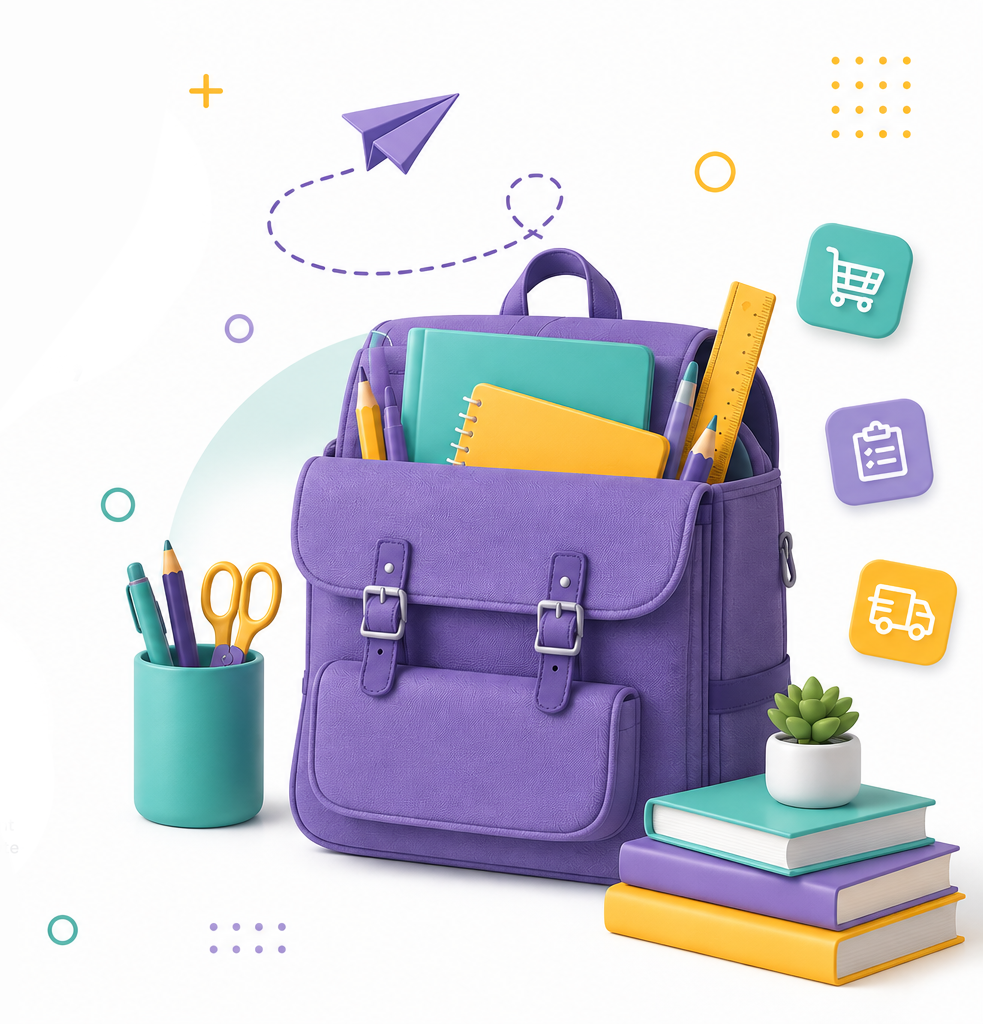
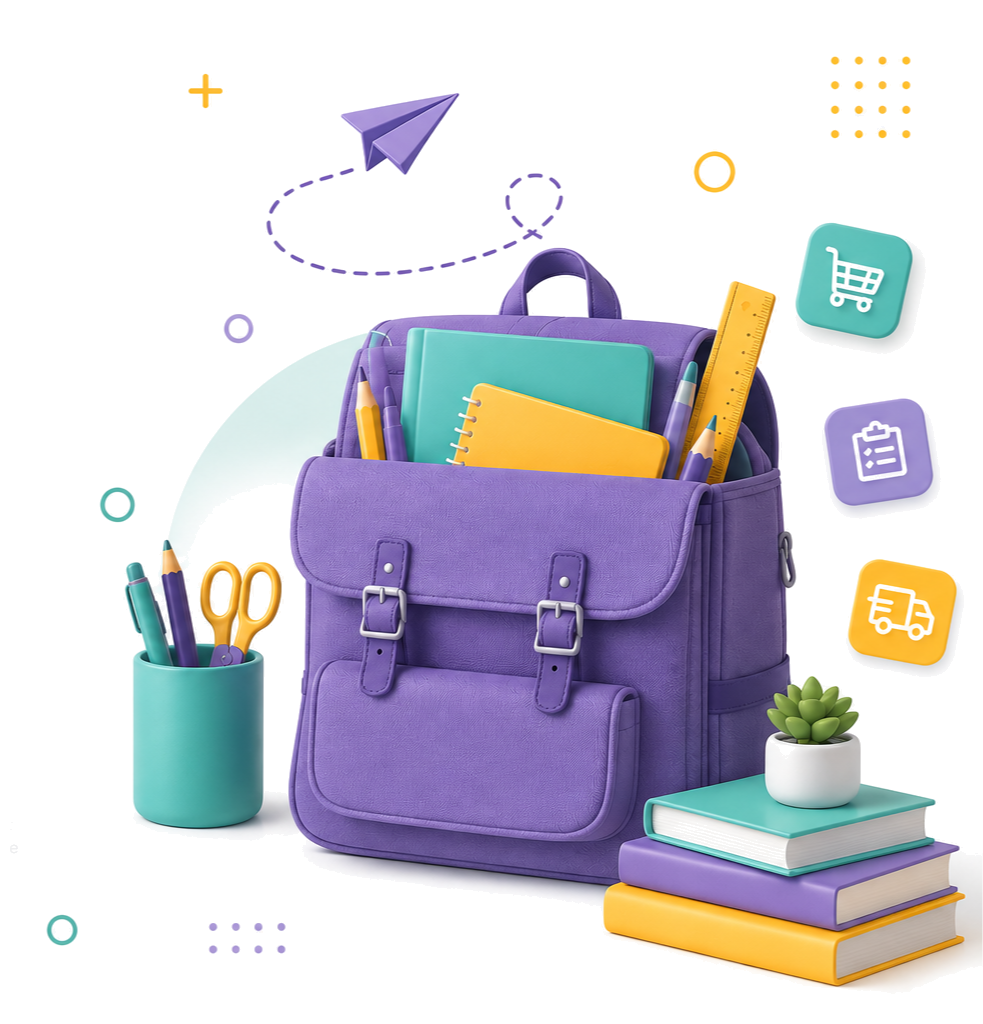
import-scholl-and-products-list

diff --git a/apps/frontend/src/components/SearchableSelect.tsx b/apps/frontend/src/components/SearchableSelect.tsx
@@ -1,0 +1,205 @@
+import { useEffect, useMemo, useRef, useState, type ReactNode } from 'react';
+import { ChevronDown, Search } from 'lucide-react';
+
+export interface SearchableSelectOption {
+  id: string;
+  label: string;
+  subtitle?: string | null;
+  iconUrl?: string | null;
+}
+
+interface SearchableSelectProps {
+  options: SearchableSelectOption[];
+  value: string;
+  onChange: (id: string) => void;
+  placeholder: string;
+  searchPlaceholder?: string;
+  emptyLabel?: string;
+  /** Icon shown in the trigger and as the default avatar for each row. */
+  icon?: ReactNode;
+  /** Called (debounced) whenever the search text changes — for server-side search. */
+  onSearch?: (query: string) => void;
+  loading?: boolean;
+  footerLabel?: string;
+  onFooterClick?: () => void;
+  className?: string;
+  required?: boolean;
+  name?: string;
+}
+
+export function SearchableSelect({
+  options,
+  value,
+  onChange,
+  placeholder,
+  searchPlaceholder = 'Rechercher...',
+  emptyLabel = 'Aucun résultat',
+  icon,
+  onSearch,
+  loading,
+  footerLabel,
+  onFooterClick,
+  className,
+  required,
+  name,
+}: SearchableSelectProps) {
+  const [open, setOpen] = useState(false);
+  const [query, setQuery] = useState('');
+  const [highlighted, setHighlighted] = useState(0);
+  const rootRef = useRef<HTMLDivElement>(null);
+  const inputRef = useRef<HTMLInputElement>(null);
+
+  const selected = useMemo(() => options.find((o) => o.id === value), [options, value]);
+
+  // Close on outside click.
+  useEffect(() => {
+    function handleClick(e: MouseEvent) {
+      if (rootRef.current && !rootRef.current.contains(e.target as Node)) {
+        setOpen(false);
+      }
+    }
+    document.addEventListener('mousedown', handleClick);
+    return () => document.removeEventListener('mousedown', handleClick);
+  }, []);
+
+  // Debounce server-side search.
+  useEffect(() => {
+    if (!onSearch) return;
+    const t = setTimeout(() => onSearch(query), 250);
+    return () => clearTimeout(t);
+  }, [query, onSearch]);
+
+  useEffect(() => {
+    if (open) {
+      setHighlighted(0);
+      requestAnimationFrame(() => inputRef.current?.focus());
+    } else {
+      setQuery('');
+    }
+  }, [open]);
+
+  const filtered = useMemo(() => {
+    if (onSearch) return options; // server already filtered
+    const q = query.trim().toLowerCase();
+    if (!q) return options;
+    return options.filter(
+      (o) =>
+        o.label.toLowerCase().includes(q) ||
+        (o.subtitle ?? '').toLowerCase().includes(q),
+    );
+  }, [options, query, onSearch]);
+
+  function select(id: string) {
+    onChange(id);
+    setOpen(false);
+  }
+
+  function handleKeyDown(e: React.KeyboardEvent) {
+    if (e.key === 'Escape') {
+      setOpen(false);
+      return;
+    }
+    if (e.key === 'ArrowDown') {
+      e.preventDefault();
+      setHighlighted((h) => Math.min(h + 1, filtered.length - 1));
+    } else if (e.key === 'ArrowUp') {
+      e.preventDefault();
+      setHighlighted((h) => Math.max(h - 1, 0));
+    } else if (e.key === 'Enter') {
+      e.preventDefault();
+      const opt = filtered[highlighted];
+      if (opt) select(opt.id);
+    }
+  }
+
+  return (
+    <div ref={rootRef} className={`relative ${className ?? ''}`}>
+      {/* Hidden native input so the field still participates in form validation/submit. */}
+      {required && <input tabIndex={-1} className="sr-only" value={value} name={name} required onChange={() => {}} />}
+
+      <button
+        type="button"
+        onClick={() => setOpen((o) => !o)}
+        className="flex h-12 sm:h-14 w-full items-center gap-2 rounded-xl border border-gray-300 bg-white px-4 text-left text-brand-900 outline-none transition-colors focus:border-brand-400"
+      >
+        {icon && <span className="shrink-0 text-brand-400">{icon}</span>}
+        <span className={`flex-1 truncate ${selected ? '' : 'text-gray-400'}`}>
+          {selected ? selected.label : placeholder}
+        </span>
+        <ChevronDown
+          size={18}
+          className={`shrink-0 text-brand-400 transition-transform ${open ? 'rotate-180' : ''}`}
+        />
+      </button>
+
+      {open && (
+        <div className="absolute left-0 right-0 top-full z-30 mt-2 min-w-[280px] rounded-2xl border border-brand-100 bg-white p-3 shadow-xl">
+          <div className="relative mb-2">
+            <Search size={16} className="pointer-events-none absolute left-3 top-1/2 -translate-y-1/2 text-brand-400" />
+            <input
+              ref={inputRef}
+              value={query}
+              onChange={(e) => setQuery(e.target.value)}
+              onKeyDown={handleKeyDown}
+              placeholder={searchPlaceholder}
+              className="w-full rounded-lg border border-brand-100 bg-brand-50/60 py-2 pl-9 pr-3 text-sm text-brand-900 outline-none focus:border-brand-300"
+            />
+          </div>
+
+          <ul className="max-h-72 overflow-y-auto">
+            {loading && (
+              <li className="px-3 py-6 text-center text-sm text-brand-400">Chargement...</li>
+            )}
+
+            {!loading && filtered.length === 0 && (
+              <li className="px-3 py-6 text-center text-sm text-brand-400">{emptyLabel}</li>
+            )}
+
+            {!loading &&
+              filtered.map((opt, i) => (
+                <li key={opt.id}>
+                  <button
+                    type="button"
+                    onMouseEnter={() => setHighlighted(i)}
+                    onClick={() => select(opt.id)}
+                    className={`flex w-full items-center gap-3 rounded-lg px-3 py-2.5 text-left transition-colors ${
+                      i === highlighted ? 'bg-brand-50' : ''
+                    } ${opt.id === value ? 'bg-brand-100/70' : ''}`}
+                  >
+                    <span className="flex h-9 w-9 shrink-0 items-center justify-center overflow-hidden rounded-full bg-brand-100 text-brand-500">
+                      {opt.iconUrl ? (
+                        <img src={opt.iconUrl} alt="" className="h-full w-full object-cover" />
+                      ) : (
+                        icon ?? opt.label.charAt(0).toUpperCase()
+                      )}
+                    </span>
+                    <span className="min-w-0 flex-1">
+                      <span className="block truncate text-sm font-medium text-brand-900">{opt.label}</span>
+                      {opt.subtitle && (
+                        <span className="block truncate text-xs text-brand-400">{opt.subtitle}</span>
+                      )}
+                    </span>
+                  </button>
+                </li>
+              ))}
+          </ul>
+
+          {footerLabel && (
+            <div className="mt-1 border-t border-brand-100 pt-2">
+              <button
+                type="button"
+                onClick={() => {
+                  onFooterClick?.();
+                }}
+                className="flex w-full items-center gap-2 rounded-lg px-3 py-2 text-left text-sm font-medium text-brand-600 hover:bg-brand-50"
+              >
+                {icon}
+                {footerLabel}
+              </button>
+            </div>
+          )}
+        </div>
+      )}
+    </div>
+  );
+}

diff --git a/apps/frontend/src/pages/LandingPage.tsx b/apps/frontend/src/pages/LandingPage.tsx
@@ -6,13 +6,23 @@ import { Button } from '../components/ui';
 import InfiniteimagescrollSchool from '../components/InfiniteimagescrollSchool';
 import InfiniteimagescrollSupplies from '../components/InfiniteimagescrollSupplies';
 import CtaButtons from '../components/CTA';
+import { SearchableSelect } from '../components/SearchableSelect';
+import { Building2, GraduationCap } from 'lucide-react';
 
 export function LandingPage() {
   const navigate = useNavigate();
   const [schoolId, setSchoolId] = useState('');
   const [gradeId, setGradeId] = useState('');
+  const [schoolSearch, setSchoolSearch] = useState('');
 
   const schools = useQuery({ queryKey: ['schools'], queryFn: () => fetchSchools() });
+  
+  const schoolResults = useQuery({
+    queryKey: ['schools', schoolSearch],
+    queryFn: () => fetchSchools(schoolSearch || undefined),
+    placeholderData: (previous) => previous,
+  });
+
   const grades = useQuery({ queryKey: ['grades'], queryFn: fetchGrades });
   const products = useQuery({ queryKey: ['products'], queryFn: () => fetchProducts() });
 
@@ -62,33 +72,38 @@ export function LandingPage() {
 
           {/* Formulaire */}
           <form onSubmit={submit} className="flex flex-col gap-3 sm:gap-4 md:flex-row">
-            <select
+            <SearchableSelect
+              className="md:flex-1"
               value={schoolId}
-              onChange={(e) => setSchoolId(e.target.value)}
-              className="h-12 sm:h-14 w-full md:flex-1 rounded-xl border border-gray-300 px-4"
+              onChange={setSchoolId}
+              onSearch={setSchoolSearch}
+              loading={schoolResults.isLoading}
+              options={(schoolResults.data ?? []).map((school) => ({
+                id: school.id,
+                label: school.name,
+                subtitle: school.city ?? undefined,
+                iconUrl: school.logoUrl,
+              }))}
+              placeholder="Choisissez une école"
+              searchPlaceholder="Rechercher une école..."
+              emptyLabel="Aucune école trouvée"
+              icon={<Building2 size={18} />}
               required
-            >
-              <option value="">Choisissez une école</option>
-              {schools.data?.map((school) => (
-                <option key={school.id} value={school.id}>
-                  {school.name}{school.city ? ` - ${school.city}` : ""}
-                </option>
-              ))}
-            </select>
+              name="schoolId"
+            />
 
-            <select
+            <SearchableSelect
+              className="md:flex-1"
               value={gradeId}
-              onChange={(e) => setGradeId(e.target.value)}
-              className="h-12 sm:h-14 w-full md:flex-1 rounded-xl border border-gray-300 px-4"
+              onChange={setGradeId}
+              options={(grades.data ?? []).map((grade) => ({ id: grade.id, label: grade.name }))}
+              placeholder="Choisissez un niveau"
+              searchPlaceholder="Rechercher un niveau..."
+              emptyLabel="Aucun niveau trouvé"
+              icon={<GraduationCap size={18} />}
               required
-            >
-              <option value="">Choisissez un niveau</option>
-              {grades.data?.map((grade) => (
-                <option key={grade.id} value={grade.id}>
-                  {grade.name}
-                </option>
-              ))}
-            </select>
+              name="gradeId"
+            />
 
             <Button className="w-full md:w-auto shrink-0">Voir la liste</Button>
           </form>
